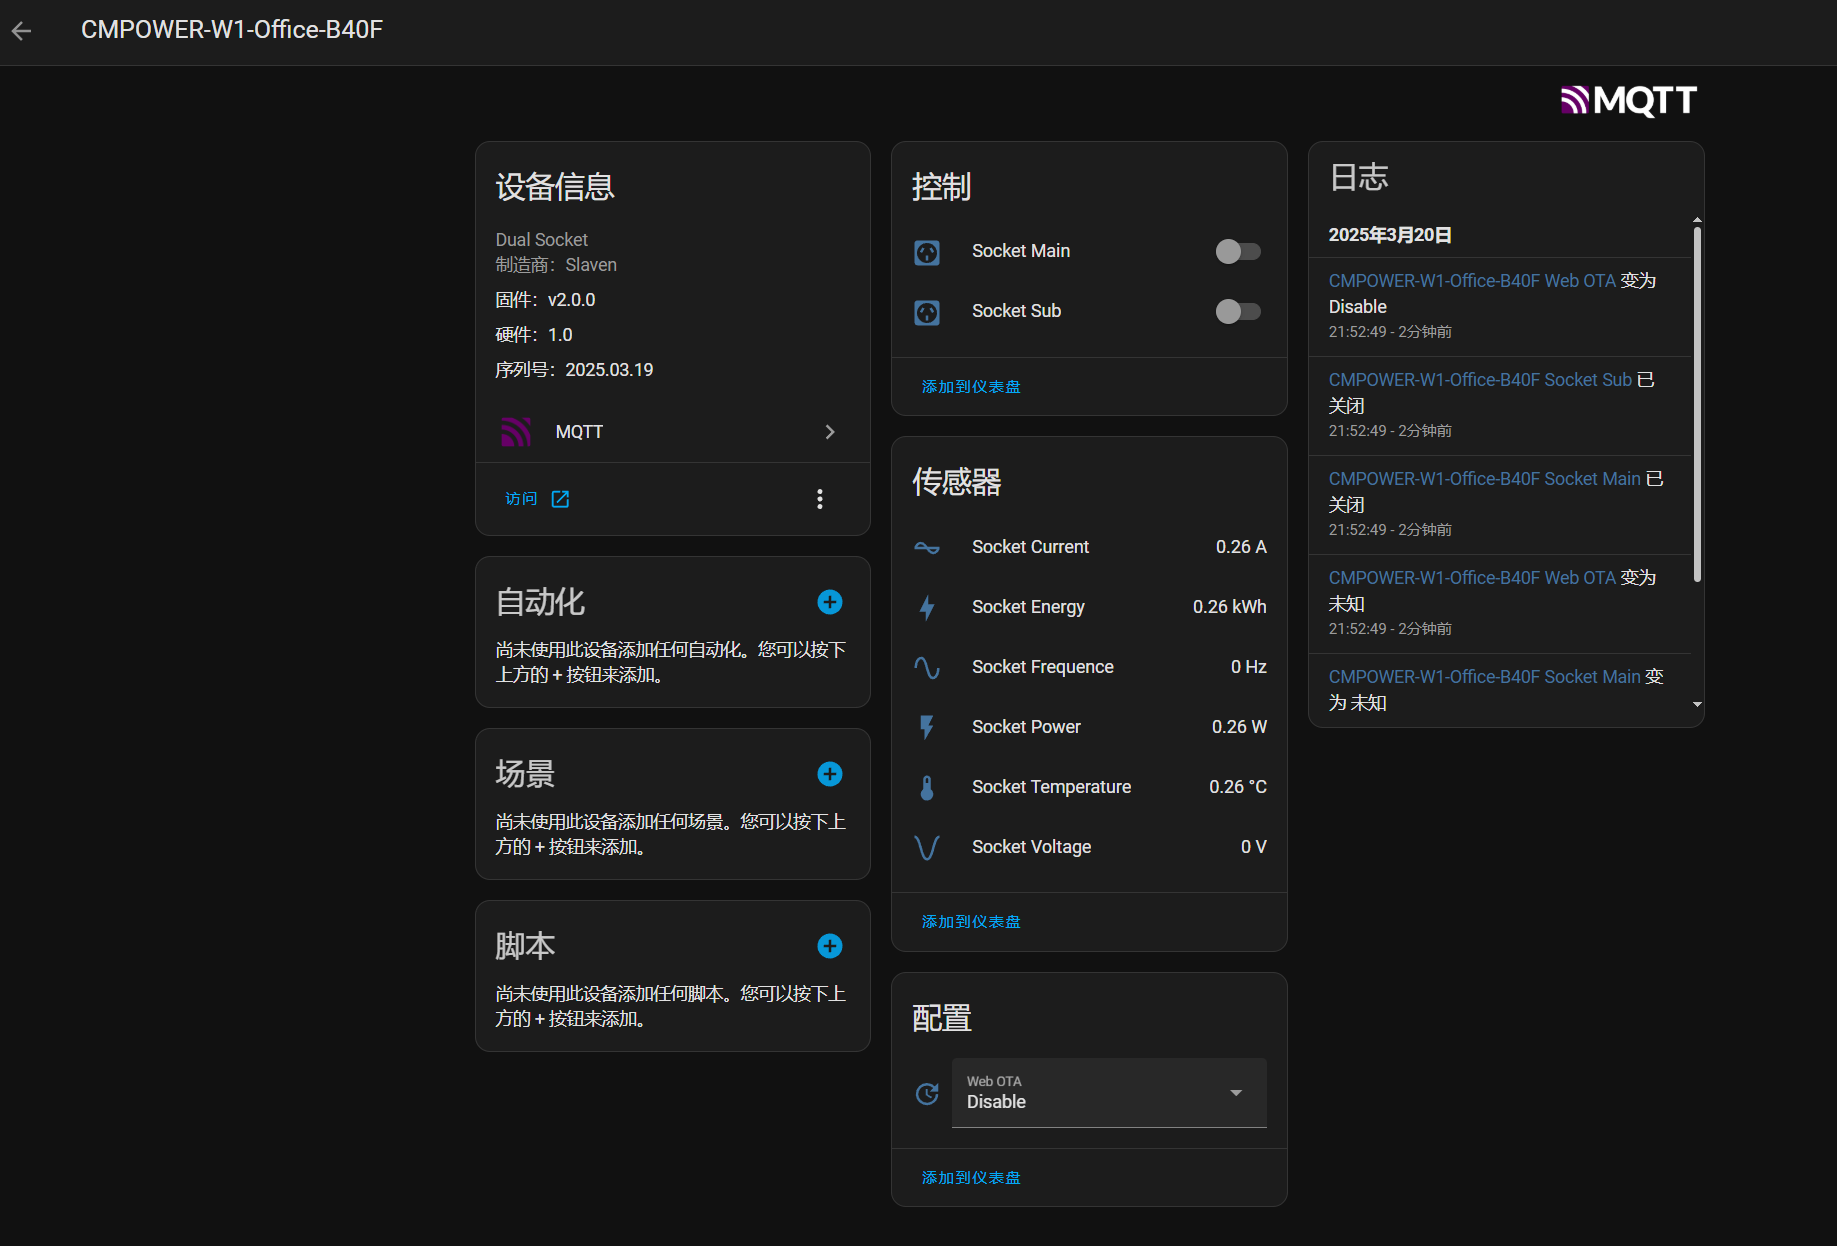
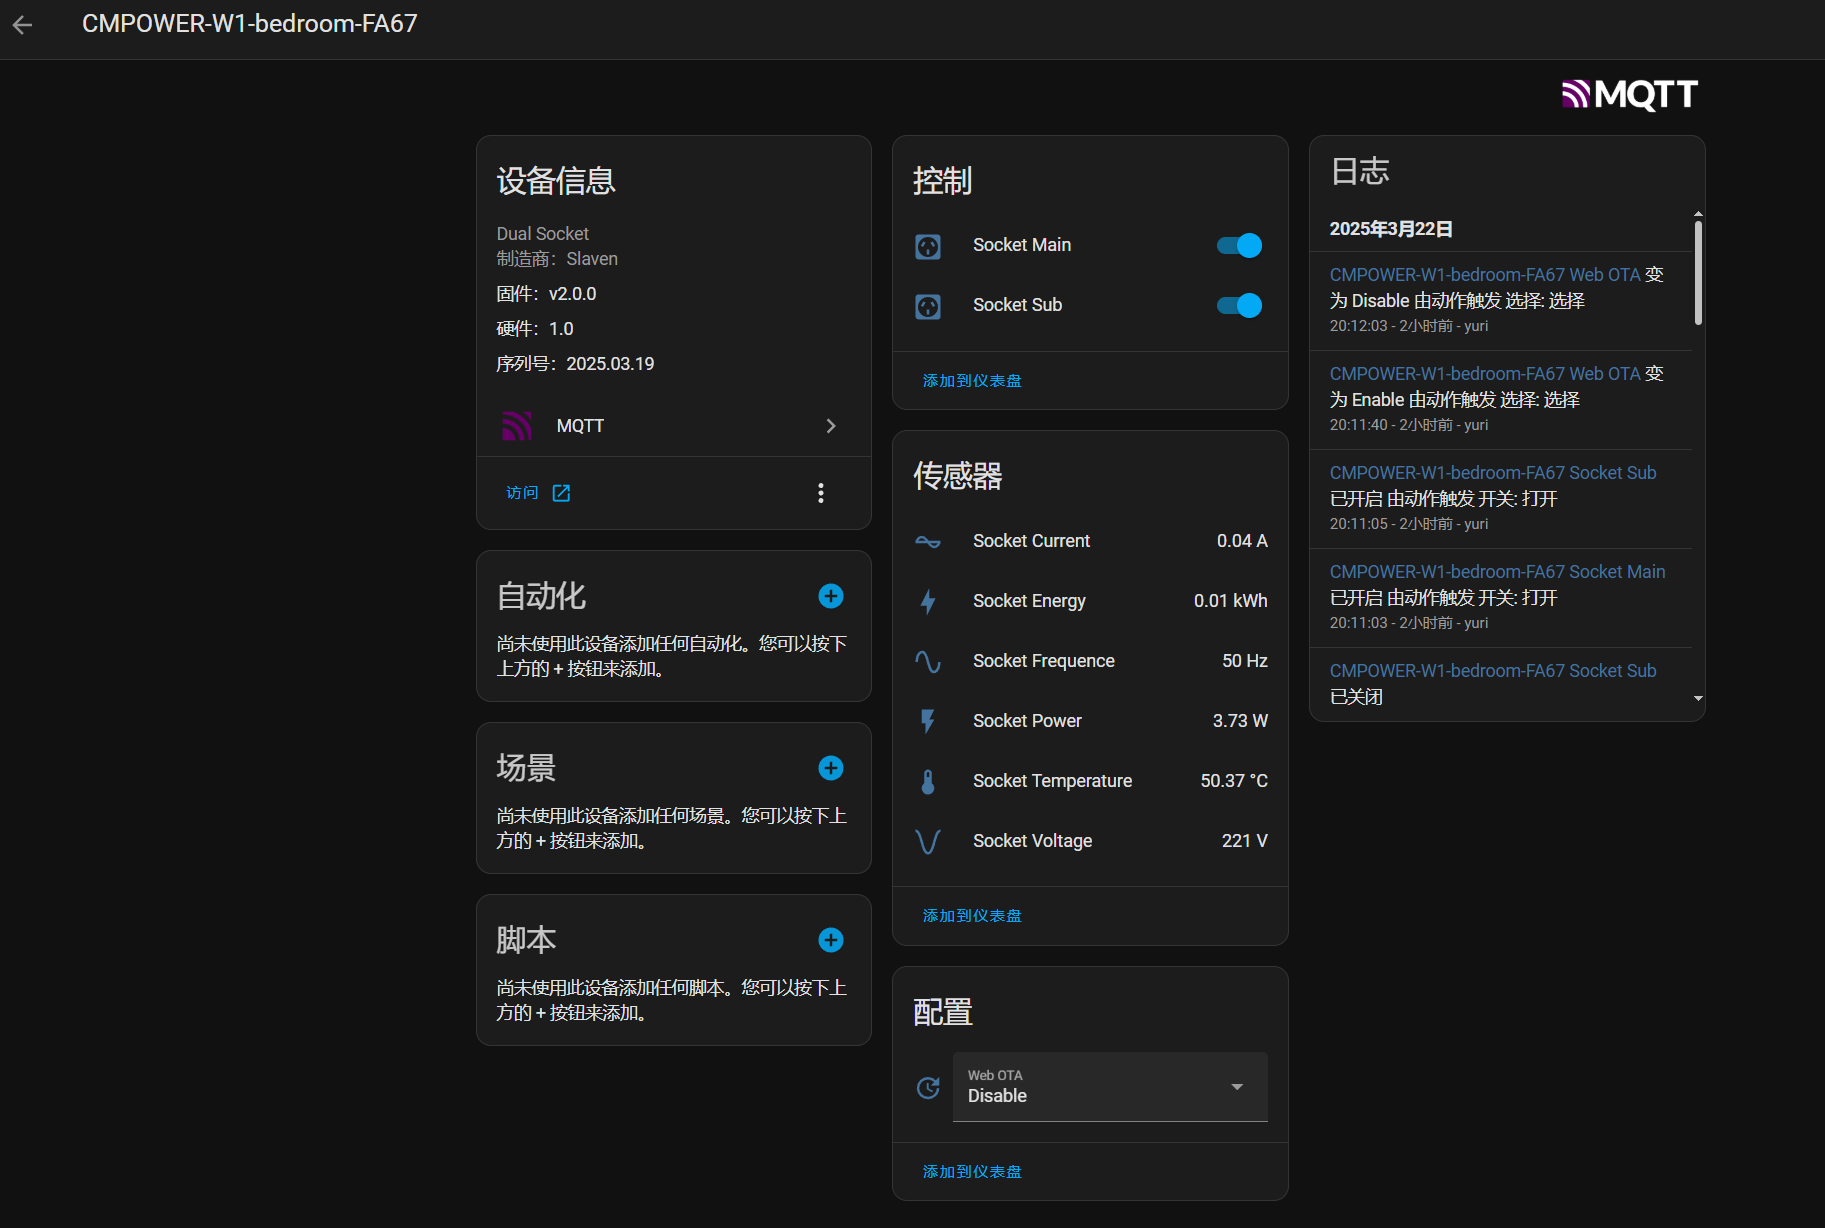
Update README

diff --git a/README.md b/README.md
@@ -144,6 +144,12 @@ Web OTA 上传固件以`sysupgrade`结尾，不要上传错固件类型
 
 ![](./docs/console.png)
 
+# 免责声明
+
+- 本项目及其所附固件、文档仅用于学习、研究及教育目的，不得用于商业用途或其他可能侵犯第三方权益的行为。请勿将本项目用于任何非法用途。
+
+- 刷写固件具有一定风险，可能导致设备变砖，作者对因使用本固件造成的任何损坏、数据丢失、设备故障、财产损失等概不负责。
+
 <div align=center><img width="258" height="258" src="./docs/qrcode.jpg"/></div>
 
-<p align="center">欢迎关注微信公众号</p>
+<p align="center">欢迎关注微信公众号"物联网不互联"</p>
